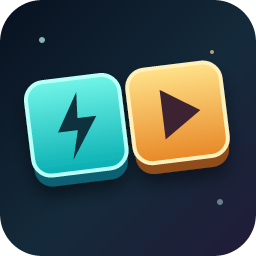
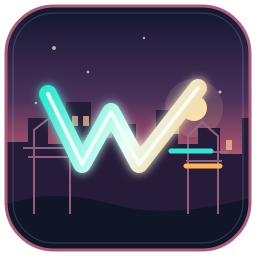
Automate Waza 0.1.3 Marketplace publishing (#1)
* fix(waza): align icon with extension family

* chore(waza): automate marketplace publishing

diff --git a/README.md b/README.md
@@ -61,6 +61,14 @@ npm run build
 npm run package
 ```
 
+## Related tools
+
+| When you need... | Extension | Role |
+| --- | --- | --- |
+| Long-term recall across chats | [Kioku](https://marketplace.visualstudio.com/items?itemName=ShunsukeF.kioku-search) | Saves and searches lessons from earlier tasks. |
+| Structured test and build diagnostics | [Zuma MCP](https://marketplace.visualstudio.com/items?itemName=ShunsukeF.inazuma-pwsh) | Returns concise failures from supported development tools. |
+| A fresh chat before context gets overloaded | [Tsugi](https://marketplace.visualstudio.com/items?itemName=ShunsukeF.tsugi) | Creates a reviewed handoff prompt for the next chat. |
+
 ## License
 
 Apache-2.0
